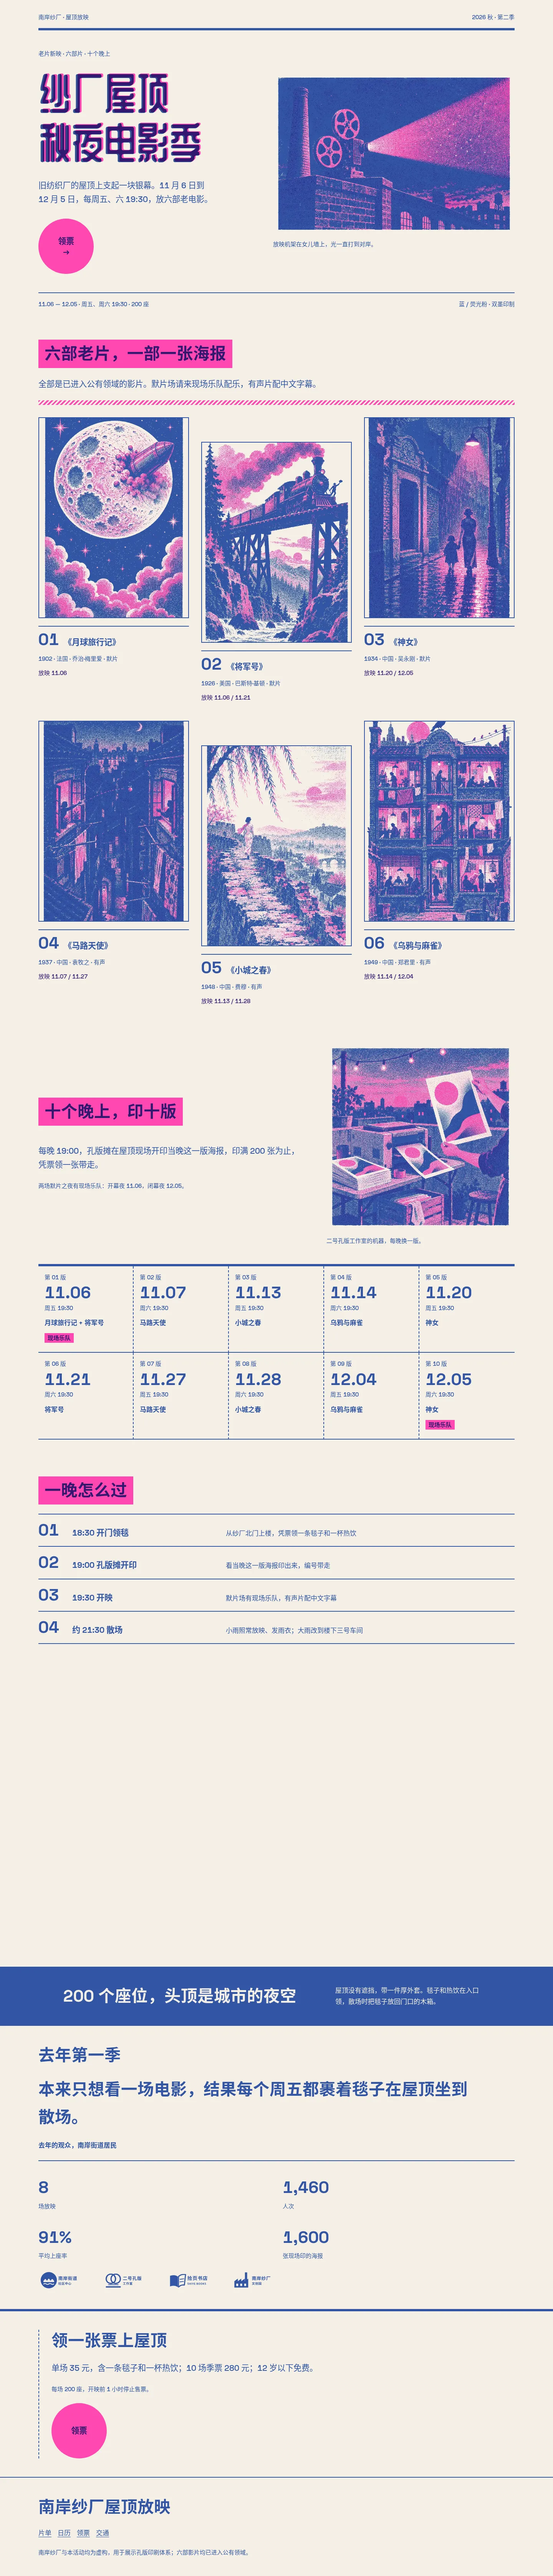
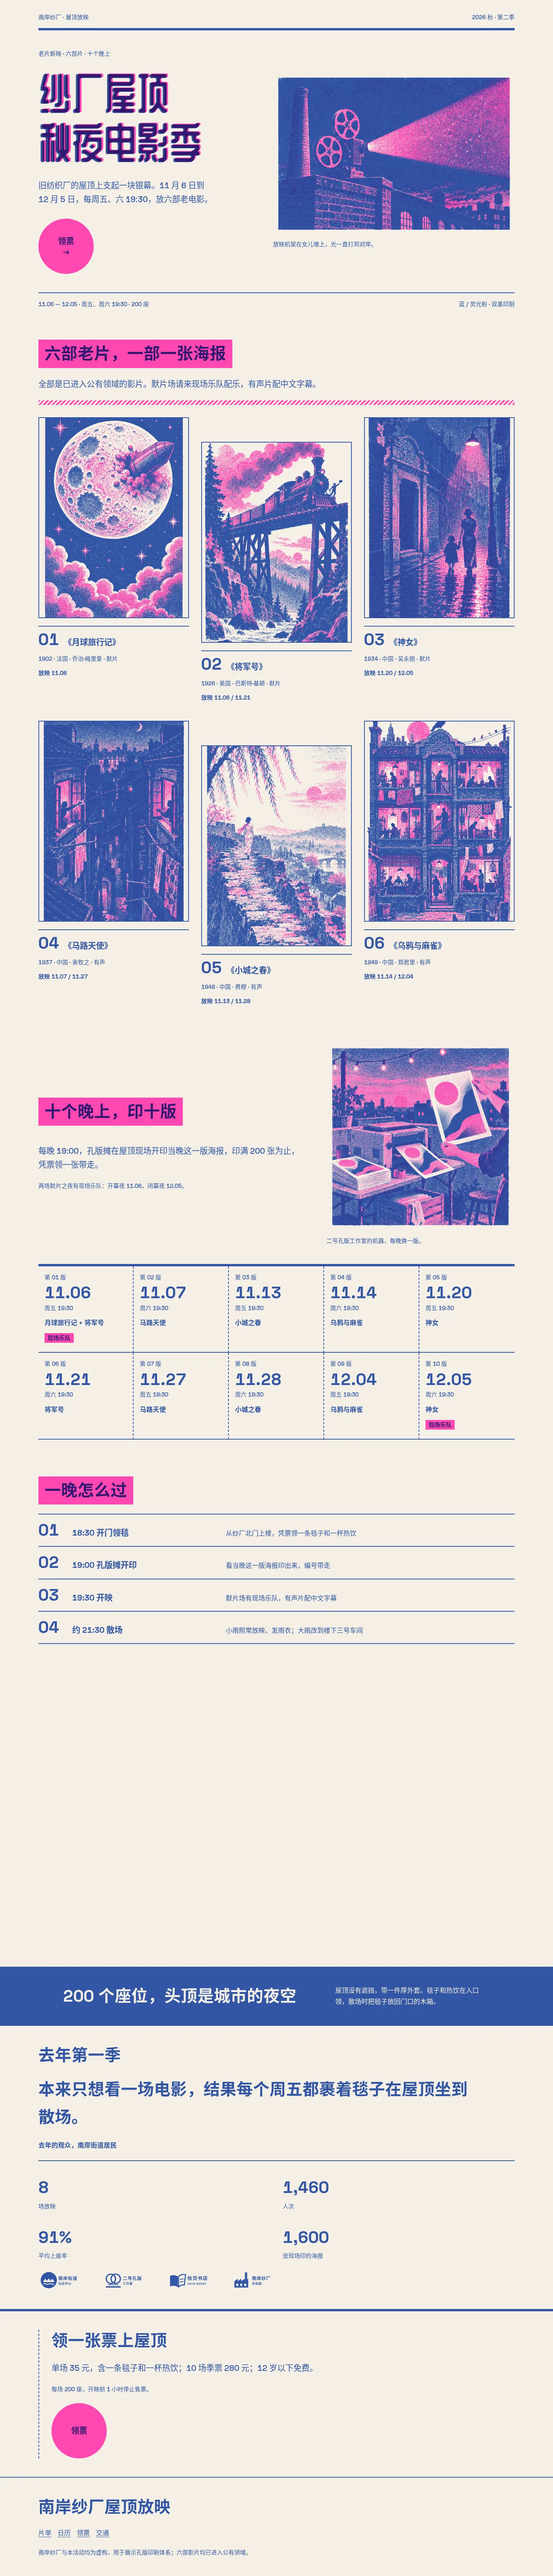
fix(riso-print): 分色图改无损编码，放映日期改回蓝墨
- 收尾审查发现：有损 WebP 让分色图解码后多出 8 万多种颜色，违反双墨纪律；片单的放映日期在纸底上用了紫色
- separate.mjs 的分色模式固定输出无损 WebP，九张图重新生成，每张解码后正好 4 种颜色，合计从 2.6 MB 降到 1.0 MB
- 放映日期改为蓝墨加粗；范例截图随之更新；汇报补上返工部分和这次的数据
- 验证：逐张统计颜色数；pnpm ds regress 零错误；pnpm verify 通过（625 项）

Refs: #64
Role: design

Changed region(s): [[0.875, 0.0312, 0.9062, 0.0623], [0.7188, 0.3117, 0.75, 0.3429]]

diff --git a/docs/reports/spec-1-phase-0.html b/docs/reports/spec-1-phase-0.html
@@ -122,22 +122,38 @@ footer { margin-top: 48px; font-size: 12px; color: var(--muted); }
 
 <header>
   <div class="eyebrow">design-system · spec 汇报 · 2026-10-13</div>
-  <h1>Spec #1 第 0 阶段：三套种子体系</h1>
-  <p class="lede">第 0 阶段的后半段：纸本编辑做完三种载体并验收；精密工业、孔版印刷按调整后的范围只做网页，也都验收通过。过程中暴露的工具缺口和审查发现，开成 13 张工程工单（#42～#54）修好了。所有子工单已关闭。<span id="pr-status"><a href="https://github.com/JinhaoFang/design-system/pull/55">PR #55</a> 等你审核合并。</span></p>
+  <h1>Spec #1 第 0 阶段：两套种子体系</h1>
+  <p class="lede">第 0 阶段的后半段：纸本编辑做完三种载体并验收，孔版印刷只做网页。你审查 PR #55 后提了六条反馈，我开了八张返工工单（#56～#63）：拆分标准样张、移除精密工业、纸本编辑换字体、重做预览导航和体系总览页、把孔版样张重做成露天电影季。孔版新样张由你亲自验收通过。所有子工单已关闭。<span id="pr-status"><a href="https://github.com/JinhaoFang/design-system/pull/55">PR #55</a> 等你审核合并。</span></p>
 </header>
 
 <div class="kpis">
-  <div class="kpi"><b>3/3</b><span>种子体系验收通过</span></div>
-  <div class="kpi"><b>6 + 15</b><span>设计工单 + 工程工单关闭</span></div>
+  <div class="kpi"><b>2/2</b><span>种子体系验收通过（精密工业已移除）</span></div>
+  <div class="kpi"><b>10 + 19</b><span>设计工单 + 工程工单关闭（含返工 #56～#63）</span></div>
   <div class="kpi"><b>4</b><span>工单因范围调整关闭</span></div>
-  <div class="kpi"><b>488→581</b><span>测试数</span></div>
+  <div class="kpi"><b>488→623</b><span>测试数</span></div>
   <div class="kpi"><b>59→1.2 MB</b><span>网页样张的字体体积</span></div>
   <div class="kpi"><b id="kpi-codex">—</b><span>Codex 累计执行时间</span></div>
 </div>
 
+<h2>PR #55 审查后的返工</h2>
+<p>你的六条反馈逐条落成了工单。设计上的工作由我自己做，包括原型、字体、内容、生图和分色；工具实现派给 Codex。</p>
+<div class="table-wrap"><table>
+<thead><tr><th>你的反馈</th><th>做了什么</th><th>工单</th></tr></thead>
+<tbody>
+<tr><td>三套体系同一份内容、同一种结构，同质化</td><td>方案 3.9 节把「标准样张」拆成两样：共享的「测试内容」只用于排法总览、回归和迁移测试；每套体系的「体系样张」用自己的题材和叙事顺序，题材先经你确认。</td><td class="num">#56</td></tr>
+<tr><td>riso 的望远镜、人物很假，应该用生图</td><td>重做成「纱厂屋顶 · 秋夜露天电影季」：九张生图经过新写的分色脚本，每个像素都吸附到孔版能印出的四种颜色上（纸、蓝、粉、叠印紫）。人物都是背影剪影，海报只画场景。</td><td class="num">#62、#63</td></tr>
+<tr><td>精密工业做得不好，直接移除</td><td>体系目录、范例快照、种子体系清单和测试全部移除；词典里 17 条指向它的解读改为临时方向。</td><td class="num">#57</td></tr>
+<tr><td>paper 的字体不贴合风格；只有标题淡入很奇怪</td><td>大字改用朱雀仿宋，西文和数字改用 EB Garamond，两款都是 OFL 授权；从官方 zip 包抓取字体，所以补了字体抓取的压缩包支持。节标题的滚动入场去掉了。</td><td class="num">#58、#61、#60</td></tr>
+<tr><td>导航页和体系页平铺，要有目录、折叠</td><td>我先做了可直接操作的原型（<code>docs/design/preview-v2/</code>），Codex 按原型实现，三轮返工。导航页：体系卡片，悬停封面预览整页，样张按原始比例显示。体系总览页：侧边目录和滑块，排法按载体分页签。分节折叠按你的意见去掉了。</td><td class="num">#59、#60</td></tr>
+<tr><td>设计质量由设计负责人把控</td><td>Codex 每轮交付我都在 1440 和 390 两个宽度下逐屏对照原型验收：#60 发回两轮，共 9 处问题（其中 2 处是你提的）。</td><td class="num">—</td></tr>
+</tbody>
+</table></div>
+<p><b>成本</b>：Codex 共派发 6 次（#60 返工两次），执行时间合计约 120 分钟，输入 3,439 万 tokens（98% 命中缓存），输出 14.2 万 tokens。生图调用 12 次，其中 3 次遇到接口并发限制，重试后成功。</p>
+<p><b>我的失误</b>：原型第一版的脚本漏了把各节移进正文栏，截图时发现后修好；孔版满版图裁掉纸边后，分色时取样纸色取错，导致整张图被洗白，截图时发现并修正。</p>
+
 <h2>任务</h2>
 <ul>
-  <li><b>目标</b>：方案第 8 节第 0 阶段的验收标准：三套种子体系通过检查器（零错误），并经裁判认可「耐看」。纸本编辑定下全库的格式和品质基准，后两套照它来做。</li>
+  <li><b>目标</b>：方案第 8 节第 0 阶段的验收标准：种子体系通过检查器（零错误），并经裁判认可「耐看」。原定三套，审查后改为两套（10-13 用户决定）。纸本编辑定下全库的格式和品质基准。</li>
   <li><b>范围</b>：本期从 #17 待验收开始，到全部子工单关闭。期间用户做了三个决定：
     <ul>
       <li>裁判验收由设计负责人代行（10-12）；</li>
@@ -145,7 +161,7 @@ footer { margin-top: 48px; font-size: 12px; color: var(--muted); }
       <li>体系实现改派给 Codex（10-13）。</li>
     </ul>
   </li>
-  <li><b>结果</b>：三套体系全部通过，回归 0 个错误，<code>pnpm verify</code> 通过。<a href="https://github.com/JinhaoFang/design-system/pull/55">PR #55</a> 已开，CI 在 PR 上运行。</li>
+  <li><b>结果</b>：两套体系全部通过，回归 0 个错误，<code>pnpm verify</code> 通过（623 项）。<a href="https://github.com/JinhaoFang/design-system/pull/55">PR #55</a> 已开，CI 在 PR 上运行。</li>
 </ul>
 
 <h2>交付</h2>
@@ -159,9 +175,9 @@ footer { margin-top: 48px; font-size: 12px; color: var(--muted); }
     <li>这是全库的品质基准，评语写在 <code>systems/paper-editorial/acceptance.md</code>。</li>
   </ul>
 </td></tr>
-<tr><td><b>精密工业</b>（#21、#24）<br>网页</td><td>拉丝铝板做成的「KRO-1600 技术文件」。卡塞格林光路按真实几何画，全页只有一屏冷色背光的表盘作高光，安全橙预算 3%。</td></tr>
-<tr><td><b>孔版印刷</b>（#25、#28）<br>网页</td><td>只用荧光粉和蓝两只墨；错版只给大标题和一枚主图；行动号召用粉色圆章；八个观测夜画成真实月相的网点日历。验证了 ADR-0001：热闹的风格也能在检查器规则内成立。</td></tr>
-<tr><td><b>范例库</b></td><td>七件原创范例已批准：纸本编辑五件，另外两套各一件。以后的体系和盲选都有了可以参照的成品。</td></tr>
+<tr><td><b>精密工业</b>（#21、#24）</td><td>审查后移除（#57），没有达到品质门槛，留到第 3 阶段扩充时重做。</td></tr>
+<tr><td><b>孔版印刷</b>（#25、#28，重做 #63）<br>网页</td><td>「纱厂屋顶 · 秋夜露天电影季」，作品概念是「每一场都是一版套色」。页面依次是：错版大字的首屏海报、六部老片的双墨海报墙、十个放映夜编成第 01 到第 10 版的日历、全页唯一一次满版屋顶现场。只用荧光粉和蓝两只墨，验证了 ADR-0001：热闹的风格也能有质感。</td></tr>
+<tr><td><b>范例库</b></td><td>六件原创范例已批准：纸本编辑五件，孔版印刷一件（重做后的电影季）。以后的体系和盲选都有了可以参照的成品。</td></tr>
 <tr><td><b>工具</b>（#42～#54）</td><td>
   <ul>
     <li><b>动效</b>：入场编排多了划出、按下落定、揭去、额外等待、位移与透明度分开计时；幻灯片可以声明翻页过渡；首屏等字体就绪再入场，入场前元素不提前显露；录屏等入场结束再滚动。</li>
@@ -173,7 +189,7 @@ footer { margin-top: 48px; font-size: 12px; color: var(--muted); }
 </table></div>
 
 <h2>时间线</h2>
-<div class="timeline" role="img" aria-label="派发时间线：10-12 22:40 至 10-13 16:30，各工单与设计分身的执行区间">
+<div class="timeline" role="img" aria-label="派发时间线：10-12 22:40 至 10-13 20:40，各工单与设计分身的执行区间">
   <div class="tl-axis"><div></div><div class="tl-ticks" id="ticks"></div></div>
   <div id="rows"></div>
   <div class="legend"><span><i style="background:var(--eng)"></i>工程（Codex）</span><span><i style="background:var(--design)"></i>设计分身（Claude 子代理，含中断）</span><span><i style="background:var(--review)"></i>审查（Codex）</span></div>
@@ -197,7 +213,7 @@ footer { margin-top: 48px; font-size: 12px; color: var(--muted); }
 </table></div>
 
 <h2>成本与效率</h2>
-<p>Codex 派发 <span id="n-dispatch">—</span> 次：工程工单 <span id="n-eng">—</span> 次（其中返工 4 次：#42、#21、#25 各一次，#54 是审查返工单），审查 3 次。同时最多 4 路在跑。</p>
+<p>Codex 派发 <span id="n-dispatch">—</span> 次：工程工单 <span id="n-eng">—</span> 次（其中返工 6 次：#42、#21、#25 各一次，#60 两次，#54 是审查返工单；PR 审查后的返工工单 #57、#58、#60、#62），审查 3 次（另有返工收尾审查 1 次，见下）。同时最多 4 路在跑。</p>
 <div class="table-wrap"><table>
 <thead><tr><th>派发</th><th>类型</th><th class="num">用时（分钟）</th><th class="num">输入</th><th class="num">其中缓存</th><th class="num">输出</th></tr></thead>
 <tbody id="cost-body"></tbody>
@@ -286,14 +302,15 @@ footer { margin-top: 48px; font-size: 12px; color: var(--muted); }
 <h2>遗留与下一步</h2>
 <ul>
   <li><b>用户</b>：审核合并 <a href="https://github.com/JinhaoFang/design-system/pull/55">PR #55</a>。</li>
-  <li><b>角色文档</b>：「排法和样张的实现可以派给工程负责人」要写进 <code>docs/roles/design.md</code>，你说过由另一个会话处理。</li>
+  <li><b>角色文档</b>：原来打算写进 <code>docs/roles/design.md</code> 的是「排法和样张的实现可以派给工程负责人」。这次审查的结果正好相反：派给 Codex 的精密工业被移除，孔版改由我亲手重做后才通过。我建议改成「体系本身由设计负责人亲手做；工具和原型的实现才派给 Codex，并且逐屏对照原型验收」。仍由你说的专门会话来定。</li>
   <li><b>先不做（已记入路线图）</b>：后续体系的幻灯片、社交配图、PDF 等衍生产物，以及衍生脚本。</li>
   <li><b>留给以后</b>：
     <ul>
       <li>幻灯片 PDF 约 15 MB，因为颗粒层被栅格化；</li>
       <li>排法之间不能共享样式；</li>
       <li>体系总览页长文的孤字警告；</li>
-      <li>CI 偶发失败的剩余原因。</li>
+      <li>CI 偶发失败的剩余原因；</li>
+      <li>孔版样张的九张图用无损 WebP，合计约 1.0 MB；以后可以按显示宽度出多档图。</li>
     </ul>
   </li>
   <li><b>下一阶段</b>：第 1 阶段「用起来（盲选验收）」，见方案第 8 节。</li>
@@ -305,7 +322,7 @@ footer { margin-top: 48px; font-size: 12px; color: var(--muted); }
 const BASE = '10-12 22:40';
 const toAbs = (t) => { const [d, hm] = t.split(' '); const [mo, day] = d.split('-').map(Number); const [h, m] = hm.split(':').map(Number); return (day - 12) * 1440 + h * 60 + m; };
 const START = toAbs(BASE);
-const END = toAbs('10-13 16:40');
+const END = toAbs('10-13 20:40');
 const runs = [
   { label: '#43', kind: 'eng', start: '10-12 22:49', end: '10-12 23:02' },
   { label: '#42', kind: 'eng', start: '10-12 22:49', end: '10-12 23:08' },
@@ -333,6 +350,12 @@ const runs = [
   { label: '#21 返工', kind: 'eng', start: '10-13 14:51', end: '10-13 15:17' },
   { label: '收尾审查', kind: 'review', start: '10-13 15:54', end: '10-13 16:06' },
   { label: '#54 返工', kind: 'eng', start: '10-13 16:06', end: '10-13 16:20' },
+  { label: '#57 移除精密工业', kind: 'eng', start: '10-13 18:21', end: '10-13 18:31' },
+  { label: '#58 字体压缩包', kind: 'eng', start: '10-13 18:26', end: '10-13 18:40' },
+  { label: '#60 预览 v2', kind: 'eng', start: '10-13 18:38', end: '10-13 19:30' },
+  { label: '#60 返工', kind: 'eng', start: '10-13 19:33', end: '10-13 19:48' },
+  { label: '#62 作品图像', kind: 'eng', start: '10-13 19:40', end: '10-13 19:51' },
+  { label: '#60 返工 2', kind: 'eng', start: '10-13 19:52', end: '10-13 20:11' },
 ];
 const cost = [
   { name: 'gh-42', ticket: '#42 三种动作', min: 18.7, input: 3671578, cached: 3529728, output: 27228 },
@@ -356,6 +379,12 @@ const cost = [
   { name: 'review-1-1', ticket: '第一批审查', min: 5.9, input: 2017567, cached: 1927296, output: 8008 },
   { name: 'review-1-2', ticket: '第二批审查', min: 3.5, input: 1110210, cached: 1014272, output: 5420 },
   { name: 'review-1-final', ticket: '收尾审查', min: 11.3, input: 2099378, cached: 1987968, output: 7932 },
+  { name: 'gh-57', ticket: '#57 移除精密工业', min: 9.5, input: 4504747, cached: 4393088, output: 11285 },
+  { name: 'gh-58', ticket: '#58 字体压缩包', min: 13.5, input: 4012401, cached: 3911296, output: 16085 },
+  { name: 'gh-60', ticket: '#60 预览 v2', min: 51.7, input: 13604757, cached: 13364480, output: 62247 },
+  { name: 'gh-60-2', ticket: '#60 返工', min: 14.6, input: 3717402, cached: 3596672, output: 16455 },
+  { name: 'gh-60-3', ticket: '#60 返工 2', min: 19.3, input: 4858820, cached: 4729856, output: 19341 },
+  { name: 'gh-62', ticket: '#62 作品图像', min: 10.9, input: 3693594, cached: 3586432, output: 16876 },
 ];
 const pct = (m) => ((m - START) / (END - START)) * 100;
 const ticks = document.getElementById('ticks');

diff --git a/systems/riso-print/works/fragments/pianmu-qiang.html b/systems/riso-print/works/fragments/pianmu-qiang.html
@@ -52,7 +52,7 @@ blockquote { font-size:var(--ds-type-sub); line-height:1.7; max-width:30em; }
 .film-no{font-family:var(--ds-font-num-bold);font-weight:700;font-size:var(--ds-type-head);line-height:1;}
 .film h3{font-size:var(--ds-type-lead);font-weight:700;}
 .film-meta,.film-nights{font-size:var(--ds-type-note);}
-.film-nights{color:var(--ds-color-purple);}
+.film-nights{font-weight:700;}
 @media(max-width:860px){.films{grid-template-columns:repeat(2,minmax(0,1fr));gap:var(--ds-space-6) var(--ds-space-4);}.film:nth-child(3n+2){margin-top:0;}.film:nth-child(2n){margin-top:var(--ds-space-7);}.film-no{font-size:var(--ds-type-sub);}.film h3{font-size:var(--ds-type-body);}}
 @media(prefers-reduced-motion:reduce){.sheet::before,.sheet img{transition:none;}.film:hover .sheet::before{transform:none;opacity:0;}.film:hover .sheet img{transform:none;}}
 </style><div class="wrap"><div id="riso-films"><h2 class="heading print-heading" data-ds-enter="rise" data-ds-order="0" data-ds-step="feed" data-ds-ease="feed" data-ds-distance="3">六部老片，一部一张海报</h2><p class="lead" data-ds-enter="rise" data-ds-order="1" data-ds-step="feed" data-ds-ease="feed" data-ds-distance="3">全部是已进入公有领域的影片。默片场请来现场乐队配乐，有声片配中文字幕。</p><div class="stripe" aria-hidden="true"></div><ol class="films" data-ds-stagger="line"><li class="film" data-ds-enter="fall" data-ds-order="0" data-ds-step="set" data-ds-ease="press" data-ds-distance="3"><figure class="sheet"><img src="images/film-moon.webp" width="720" height="1080" loading="lazy" alt="《月球旅行记》场景海报：一枚炮弹形的舱体扎进布满环形山的月亮，下方是舞台布景式的云"></figure><div class="film-head"><span class="num film-no">01</span><h3>《月球旅行记》</h3></div><p class="film-meta num">1902 · 法国 · 乔治·梅里爱 · 默片</p><p class="film-nights num">放映 11.06</p></li><li class="film" data-ds-enter="fall" data-ds-order="1" data-ds-step="set" data-ds-ease="press" data-ds-distance="3"><figure class="sheet"><img src="images/film-locomotive.webp" width="720" height="1080" loading="lazy" alt="《将军号》场景海报：老式蒸汽机车冒着浓烟驶过峡谷上的木栈桥"></figure><div class="film-head"><span class="num film-no">02</span><h3>《将军号》</h3></div><p class="film-meta num">1926 · 美国 · 巴斯特·基顿 · 默片</p><p class="film-nights num">放映 11.06 / 11.21</p></li><li class="film" data-ds-enter="fall" data-ds-order="2" data-ds-step="set" data-ds-ease="press" data-ds-distance="3"><figure class="sheet"><img src="images/film-lamp.webp" width="720" height="1080" loading="lazy" alt="《神女》场景海报：雨夜的石库门弄堂，一盏路灯下，穿旗袍的女人牵着孩子走远"></figure><div class="film-head"><span class="num film-no">03</span><h3>《神女》</h3></div><p class="film-meta num">1934 · 中国 · 吴永刚 · 默片</p><p class="film-nights num">放映 11.20 / 12.05</p></li><li class="film" data-ds-enter="fall" data-ds-order="3" data-ds-step="set" data-ds-ease="press" data-ds-distance="3"><figure class="sheet"><img src="images/film-windows.webp" width="720" height="1080" loading="lazy" alt="《马路天使》场景海报：夜里两栋石库门隔着窄弄相对，一扇窗向另一扇窗抛过一只橘子"></figure><div class="film-head"><span class="num film-no">04</span><h3>《马路天使》</h3></div><p class="film-meta num">1937 · 中国 · 袁牧之 · 有声</p><p class="film-nights num">放映 11.07 / 11.27</p></li><li class="film" data-ds-enter="fall" data-ds-order="4" data-ds-step="set" data-ds-ease="press" data-ds-distance="3"><figure class="sheet"><img src="images/film-wall.webp" width="720" height="1080" loading="lazy" alt="《小城之春》场景海报：春天的小城，一个系丝巾的女人独自走在残破的城墙上"></figure><div class="film-head"><span class="num film-no">05</span><h3>《小城之春》</h3></div><p class="film-meta num">1948 · 中国 · 费穆 · 有声</p><p class="film-nights num">放映 11.13 / 11.28</p></li><li class="film" data-ds-enter="fall" data-ds-order="5" data-ds-step="set" data-ds-ease="press" data-ds-distance="3"><figure class="sheet"><img src="images/film-birds.webp" width="720" height="1080" loading="lazy" alt="《乌鸦与麻雀》场景海报：一栋挤满租客的三层石库门，屋脊上停着乌鸦，窗台和电线上是麻雀"></figure><div class="film-head"><span class="num film-no">06</span><h3>《乌鸦与麻雀》</h3></div><p class="film-meta num">1949 · 中国 · 郑君里 · 有声</p><p class="film-nights num">放映 11.14 / 12.04</p></li></ol></div></div>

diff --git a/systems/riso-print/images/src/prompts/README.md b/systems/riso-print/images/src/prompts/README.md
@@ -16,5 +16,5 @@
 
 - 生图模型：需求方配置的 gpt-image 系列模型，`quality: high`。每张提示词的开头都是同一段画风要求：蓝、粉双墨，暖纸，粗网点，模版毛边，不出现文字。
 - 人物：只画背影或很小的剪影，不画演员本人的样貌。六张片单海报只画影片里的场景。
-- 分色：模型给的颜色不直接用。原图用 `node systems/riso-print/images/src/separate.mjs <原图.png> images/<标识>.webp --width <成品宽度> --quality 0.72` 转成严格的双墨稿：先把原图的纸色校正到体系纸色，再把每个像素吸附到两只墨能印出的四种颜色上（纸、蓝、粉、粉叠蓝的紫），量化误差扩散到相邻像素。成品只含这四种颜色，符合「双墨纪律」。
+- 分色：模型给的颜色不直接用。原图用 `node systems/riso-print/images/src/separate.mjs <原图.png> images/<标识>.webp --width <成品宽度>` 转成严格的双墨稿：先把原图的纸色校正到体系纸色，再把每个像素吸附到两只墨能印出的四种颜色上（纸、蓝、粉、粉叠蓝的紫），量化误差扩散到相邻像素。输出无损 WebP，解码后只含这四种颜色，符合「双墨纪律」。
 - 挑图：每次生成后逐张看，人物姿态、场景与片名对得上才用。生成原图不进 git，只提交分色后的成品。
